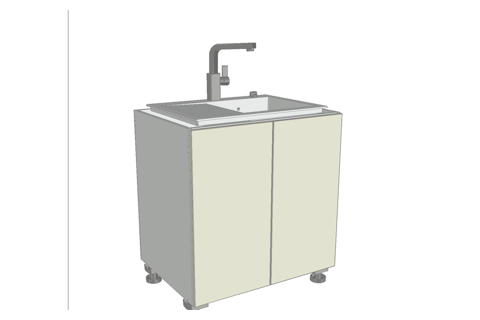
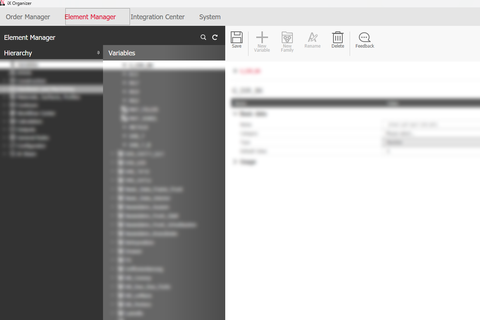
Home: iMOS service example is an iX Organizer screen with the content blurred
Claude-Session: https://claude.ai/code/session_012MYt1L9swQhUtGQbCXSgMx

diff --git a/src/pages/Home.tsx b/src/pages/Home.tsx
@@ -15,7 +15,7 @@ const SERVICES = [
   { t: "פריסת פלטות", d: "נסטינג לפי חומר ועובי, עם מינימום פחת ומדבקה לכל חלק.", img: exNesting, alt: "דוגמה: פריסת חלקים על פלטה 2440×1220" },
   { t: "קבצי CNC", d: "תוכניות מוכנות לטעינה במכונה שלכם, לפי הכלים והפוסט-פרוססור שלה.", img: exGcode, alt: "דוגמה: קטע מתוכנית מכונה של לוח" },
   { t: "דוחות בנייה ופרזול", d: "שרטוט לכל ארון עם סימון החלקים, ורשימת פרזול להזמנה.", img: exReport, alt: "דוגמה: שרטוט פיצוץ של ארון כיור עם מספרי החלקים" },
-  { t: "שירות iMOS", d: "הקמה, יחידות מותאמות ותמיכה בתוכנה לנגריות שעובדות איתה.", img: exImos, alt: "דוגמה: ארון כיור שנבנה ב-iMOS" },
+  { t: "שירות iMOS", d: "הקמה, יחידות מותאמות ותמיכה בתוכנה לנגריות שעובדות איתה.", img: exImos, alt: "דוגמה: מסך Element Manager בתוכנת iMOS iX" },
 ];
 const MORE = ["פירוק תוכניות אדריכליות לארונות וחלקים", "מדבקות לחלקים עם מיקום על הפלטה וקנטים", "ספריות ומאגרי נתונים ל-iMOS", "התאמת פוסט-פרוססורים ומכונות", "ליווי והדרכת הצוות בנגרייה"];
 
